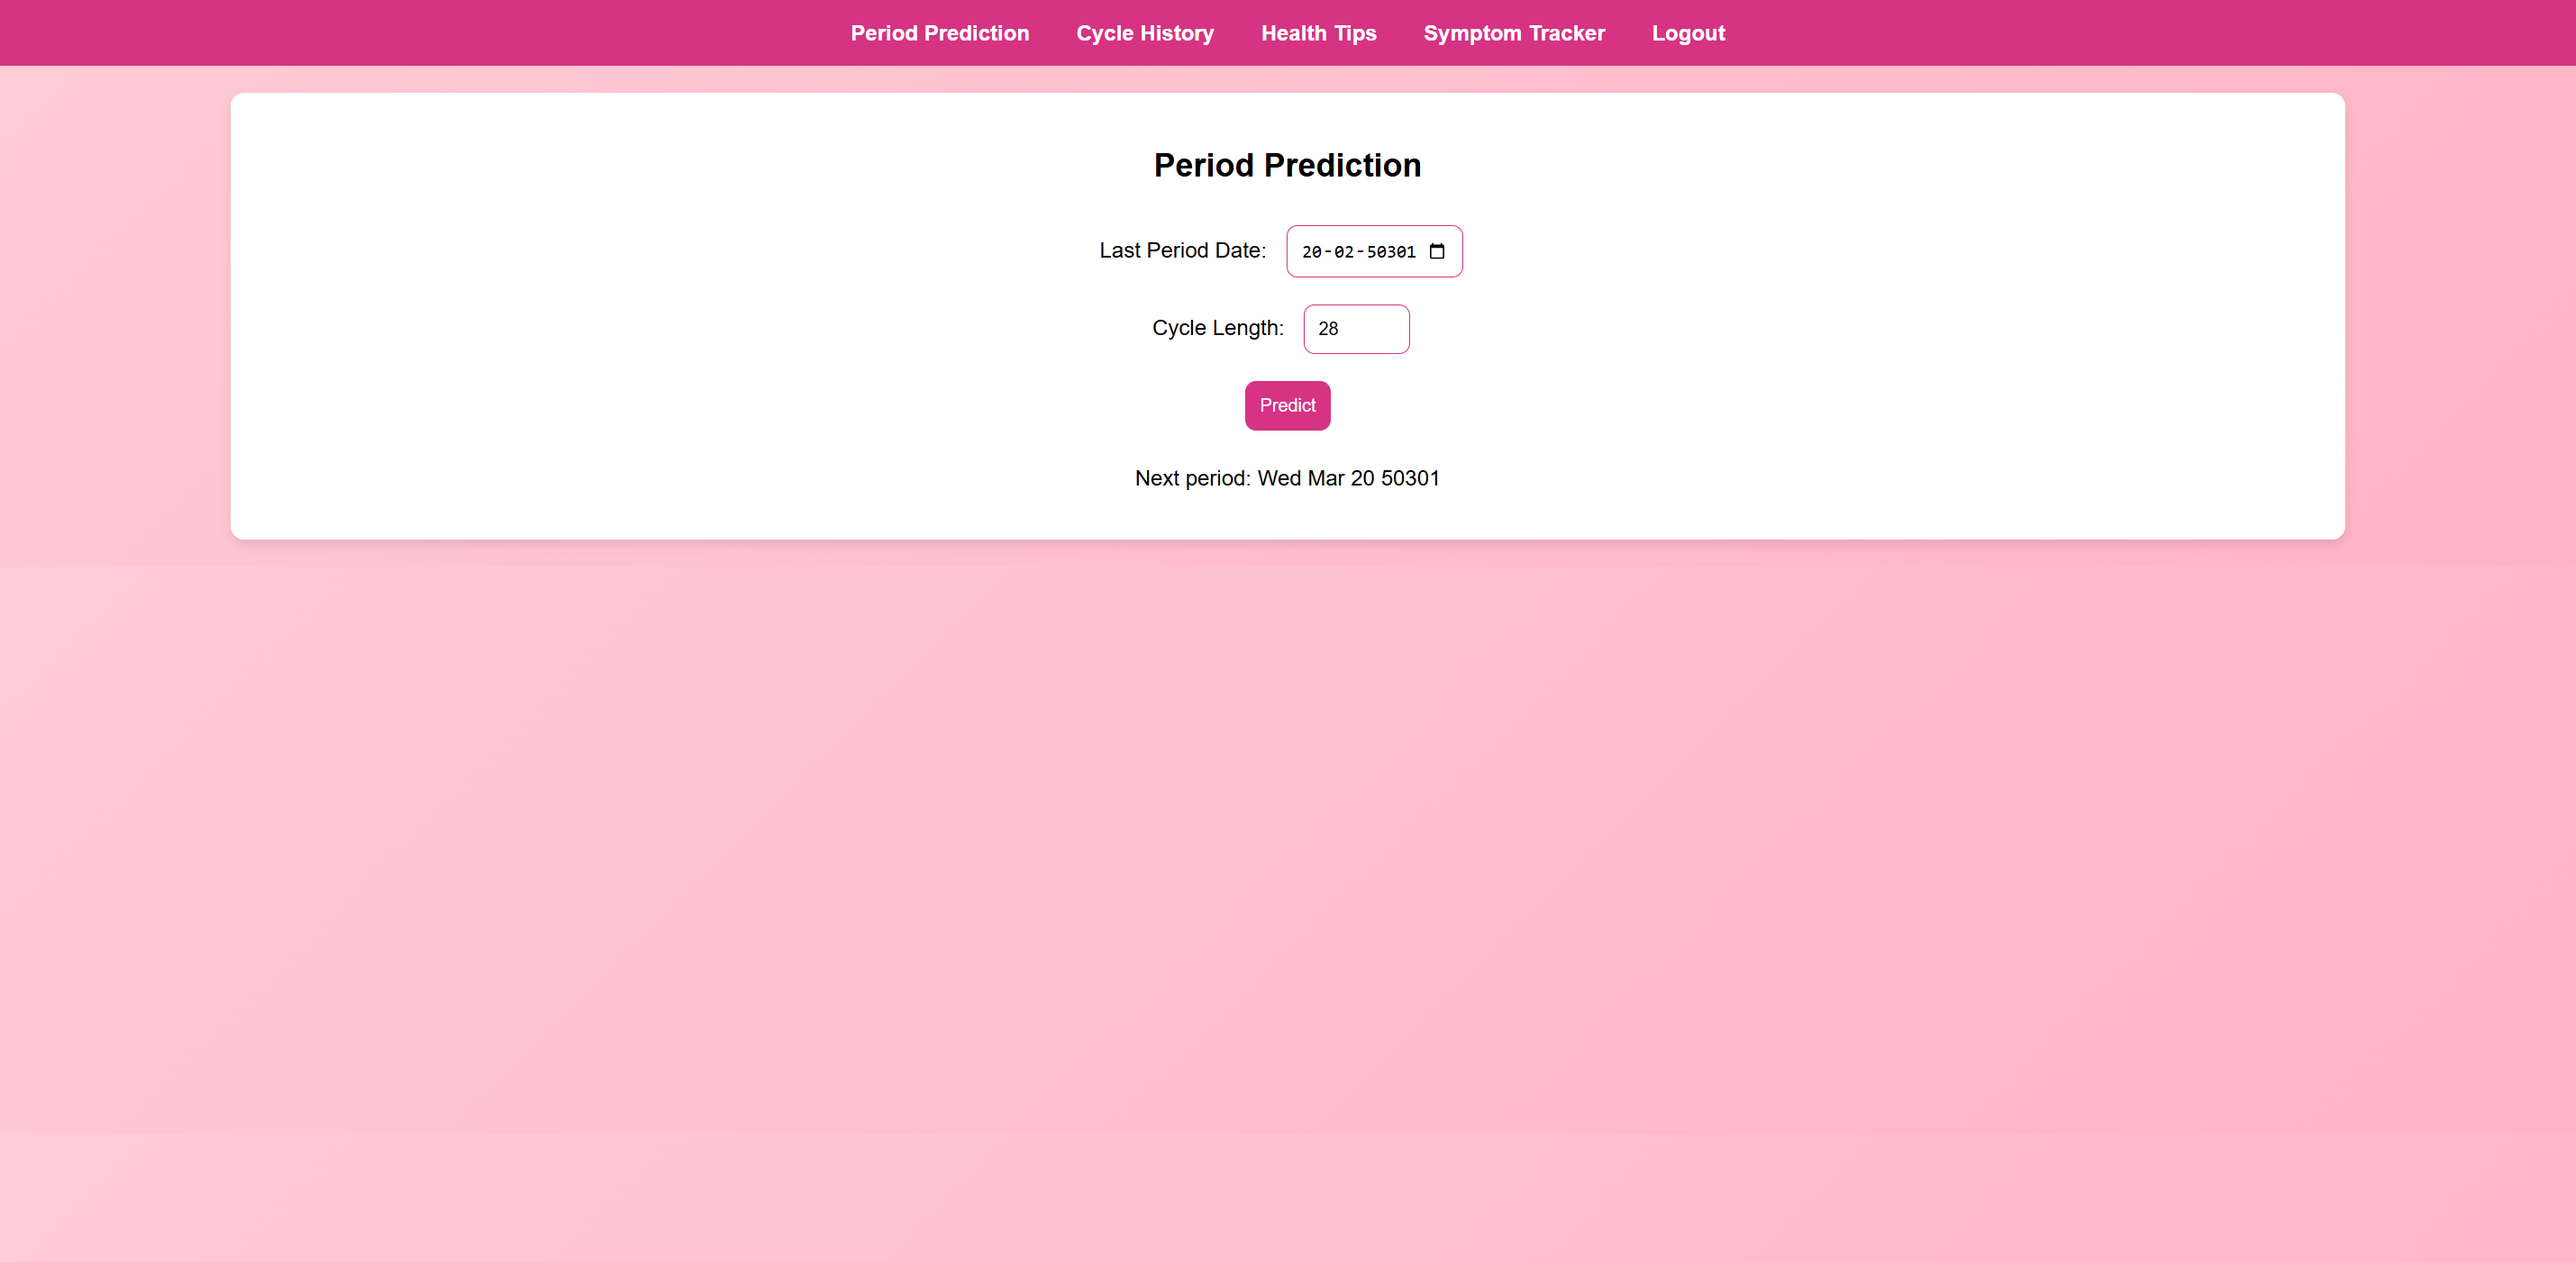
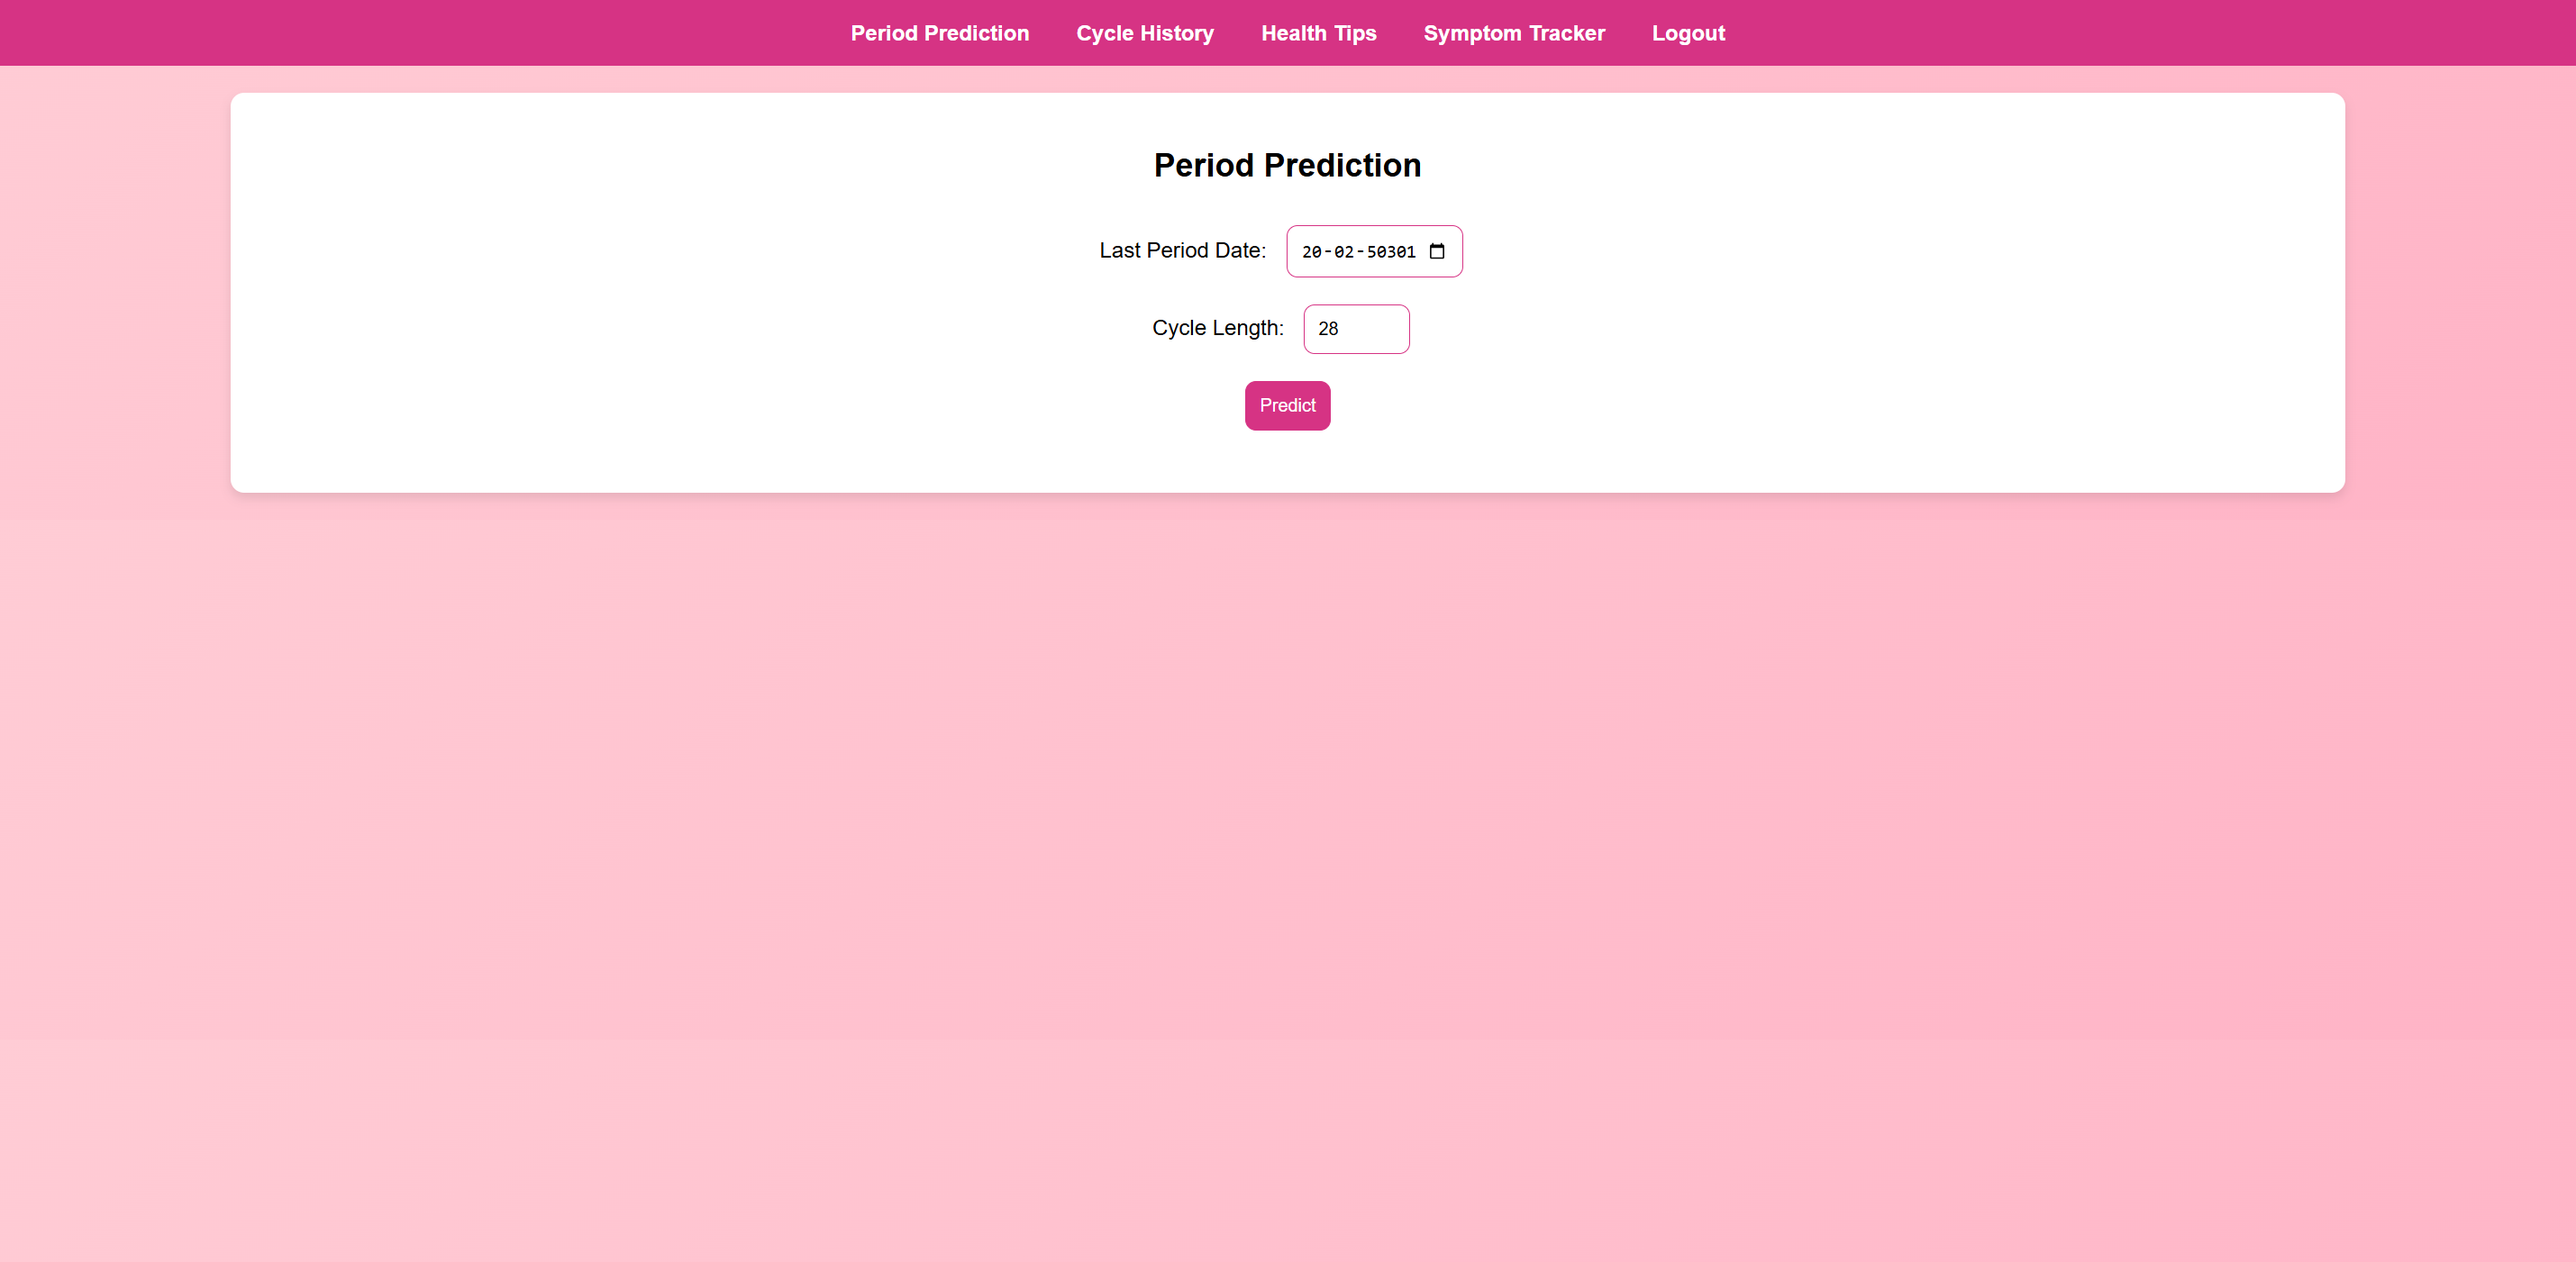
modified commit

Changed region(s): [[0.0623, 0.3683, 0.9339, 0.4297]]

diff --git a/dashboard.html b/dashboard.html
@@ -102,54 +102,110 @@
 
     <script>
         if (!localStorage.getItem("loggedIn")) {
-            window.location.href = "login.html";
-        }
-
-        function showSection(section) {
-            document.querySelectorAll("section").forEach(sec => sec.style.display = "none");
-            document.getElementById(section).style.display = "block";
-        }
+            window.location.href = "login.html";}
         
-        function logSymptoms() {
-            let mood = document.getElementById("mood").value;
-            let symptoms = [];
-            
-            ["cramps", "headache", "fatigue", "bloating"].forEach(symptom => {
-                if (document.getElementById(symptom).checked) {
-                    symptoms.push(symptom);
-                }
-            });
 
-            let log = {
-                date: new Date().toDateString(),
-                mood: mood,
-                symptoms: symptoms.join(", ") || "None"
-            };
+    function showSection(section) {
+        document.querySelectorAll("section").forEach(sec => sec.style.display = "none");
+        document.getElementById(section).style.display = "block";
+    }
 
-            let logs = JSON.parse(localStorage.getItem("symptomLogs")) || [];
-            logs.push(log);
-            localStorage.setItem("symptomLogs", JSON.stringify(logs));
-            updateSymptomHistory();
-        }
+    function predictPeriod() {
+    let lastPeriodDate = document.getElementById("lastPeriod").value;
+    let cycleLength = document.getElementById("cycleLength").value;
 
-        function updateSymptomHistory() {
-            let logs = JSON.parse(localStorage.getItem("symptomLogs")) || [];
-            let historyList = document.getElementById("symptomHistory");
-            historyList.innerHTML = "";
-            logs.forEach(log => {
-                let li = document.createElement("li");
-                li.innerText = `${log.date} - Mood: ${log.mood}, Symptoms: ${log.symptoms}`;
-                historyList.appendChild(li);
-            });
-        }
+    if (!lastPeriodDate || !cycleLength.trim()) {
+        document.getElementById("predictionResult").innerText = "Please enter both Last Period Date and Cycle Length.";
+        return;
+    }
+    
+    cycleLength = parseInt(cycleLength);
+    if (isNaN(cycleLength) || cycleLength < 21 || cycleLength > 35) {
+        document.getElementById("predictionResult").innerText = "Cycle length must be between 21 and 35 days.";
+        return;
+    }
 
-        function clearSymptomHistory() {
-            localStorage.removeItem("symptomLogs");
-            updateSymptomHistory();
-        }
+    let lastPeriod = new Date(lastPeriodDate);
+    let nextPeriod = new Date(lastPeriod);
+    nextPeriod.setDate(lastPeriod.getDate() + cycleLength);
 
+    let predictionText = `📅 Next period is expected on: ${nextPeriod.toDateString()}`;
+    document.getElementById("predictionResult").innerText = predictionText;
+
+    // ✅ Store prediction in history
+    let history = JSON.parse(localStorage.getItem("periodHistory")) || [];
+    history.push({ lastPeriod: lastPeriod.toDateString(), nextPeriod: nextPeriod.toDateString() });
+    localStorage.setItem("periodHistory", JSON.stringify(history));
+
+    updateCycleHistory();
+}
+
+
+    function updateCycleHistory() {
+        let history = JSON.parse(localStorage.getItem("periodHistory")) || [];
+        let historyList = document.getElementById("historyList");
+        historyList.innerHTML = "";
+
+        history.forEach(entry => {
+            let li = document.createElement("li");
+            li.innerText = `Last Period: ${entry.lastPeriod} → Predicted Next: ${entry.nextPeriod}`;
+            historyList.appendChild(li);
+        });
+    }
+
+    function clearHistory() {
+        localStorage.removeItem("periodHistory");
+        updateCycleHistory();
+    }
+
+    function logSymptoms() {
+        let mood = document.getElementById("mood").value;
+        let symptoms = [];
+
+        ["cramps", "headache", "fatigue", "bloating"].forEach(symptom => {
+            if (document.getElementById(symptom).checked) {
+                symptoms.push(symptom);
+            }
+        });
+
+        let log = {
+            date: new Date().toDateString(),
+            mood: mood,
+            symptoms: symptoms.join(", ") || "None"
+        };
+
+        let logs = JSON.parse(localStorage.getItem("symptomLogs")) || [];
+        logs.push(log);
+        localStorage.setItem("symptomLogs", JSON.stringify(logs));
         updateSymptomHistory();
-        showSection('prediction');
+    }
+
+    function updateSymptomHistory() {
+        let logs = JSON.parse(localStorage.getItem("symptomLogs")) || [];
+        let historyList = document.getElementById("symptomHistory");
+        historyList.innerHTML = "";
+        logs.forEach(log => {
+            let li = document.createElement("li");
+            li.innerText = `${log.date} - Mood: ${log.mood}, Symptoms: ${log.symptoms}`;
+            historyList.appendChild(li);
+        });
+    }
+
+    function clearSymptomHistory() {
+        localStorage.removeItem("symptomLogs");
+        updateSymptomHistory();
+    }
+
+    updateCycleHistory();
+    updateSymptomHistory();
+    showSection('prediction');
+    function logout() {
+    localStorage.removeItem("loggedIn");
+    window.location.href = "login.html";  // Redirect to login
+}
+
+</script>
+
     </script>
 </body>
 </html>

diff --git a/test_period_tracker.py b/test_period_tracker.py
@@ -14,11 +14,11 @@ from webdriver_manager.chrome import ChromeDriverManager
 service = Service(ChromeDriverManager().install())
 options = Options()
 options.add_argument("--headless")  # Run in headless mode
-options.add_argument("--window-size=1920,1080")  # Set fixed window size
+options.add_argument("--window-size=1920,1080")
 driver = webdriver.Chrome(service=service, options=options)
 wait = WebDriverWait(driver, 5)
 
-# Open Login Page (Replace with correct path)
+# Open Login Page
 file_path = os.path.abspath("login.html")
 driver.get("file://" + file_path)
 
@@ -30,8 +30,6 @@ def log_test(test_name, condition):
         test_results.append(f"✅ {test_name} - Passed")
     else:
         test_results.append(f"❌ {test_name} - Failed")
-
-# ---------------- TEST CASES ----------------
 
 # Test Case 1: Empty Login Fields
 driver.find_element(By.ID, "loginButton").click()
@@ -62,7 +60,7 @@ log_test("Correct Login", driver.find_element(By.ID, "prediction").is_displayed(
 driver.find_element(By.ID, "predictButton").click()
 time.sleep(1)
 prediction = driver.find_element(By.ID, "predictionResult").text
-log_test("Empty Prediction Fields", "Please enter all details" in prediction)
+log_test("Empty Prediction Fields", "Please enter both Last Period Date and Cycle Length." in prediction)
 
 # Test Case 5: Invalid Cycle Length
 driver.find_element(By.ID, "lastPeriod").send_keys("2025-03-01")
@@ -80,38 +78,29 @@ time.sleep(1)
 prediction = driver.find_element(By.ID, "predictionResult").text
 log_test("Valid Period Prediction", "Next period" in prediction)
 
-# Test Case 7: UI Comparison
-screenshot_path = "actual_ui.png"
-if os.path.exists(screenshot_path):
-    os.remove(screenshot_path)
-driver.save_screenshot(screenshot_path)
+# Test Case 7: Symptom Tracker Log
+wait.until(EC.presence_of_element_located((By.XPATH, "//a[text()='Symptom Tracker']"))).click()
+time.sleep(1)
+driver.find_element(By.ID, "mood").send_keys("Happy")
+driver.find_element(By.ID, "cramps").click()
+driver.find_element(By.XPATH, "//button[text()='Save Log']").click()
+time.sleep(1)
+symptom_logs = driver.find_element(By.ID, "symptomHistory").text
+log_test("Symptom Tracker Log", "Happy" in symptom_logs and "cramps" in symptom_logs)
 
-expected_path = "expected_ui.png"
-if not os.path.exists(expected_path):
-    test_results.append("❌ UI Comparison - Expected UI image not found!")
-else:
-    expected_img = cv2.imread(expected_path)
-    actual_img = cv2.imread(screenshot_path)
-    if expected_img is None or actual_img is None:
-        test_results.append("❌ UI Comparison - One of the images failed to load!")
-    else:
-        expected_img = cv2.resize(expected_img, (actual_img.shape[1], actual_img.shape[0]))
-        expected_gray = cv2.cvtColor(expected_img, cv2.COLOR_BGR2GRAY)
-        actual_gray = cv2.cvtColor(actual_img, cv2.COLOR_BGR2GRAY)
-        difference = cv2.absdiff(expected_gray, actual_gray)
-        cv2.imwrite("diff.png", difference)
-        log_test("UI Comparison", np.sum(difference) == 0)
+# Test Case 8: Clear Symptom History
+driver.find_element(By.XPATH, "//button[text()='Clear Symptom History']").click()
+time.sleep(1)
+symptom_logs = driver.find_element(By.ID, "symptomHistory").text
+log_test("Clear Symptom History", symptom_logs == "")
 
-# Test Case 8: Logout Functionality
-try:
-    logout_button = wait.until(EC.element_to_be_clickable((By.XPATH, "//a[text()='Logout']")))
-    logout_button.click()
-    time.sleep(1)
-    redirect_check = "login.html" in driver.current_url
-    local_storage_check = driver.execute_script("return localStorage.getItem('loggedIn');") is None
-    log_test("Logout Functionality", redirect_check and local_storage_check)
-except Exception as e:
-    test_results.append(f"❌ Logout Functionality - {str(e)}")
+# Test Case 9: Logout Functionality
+logout_button = wait.until(EC.element_to_be_clickable((By.XPATH, "//a[text()='Logout']")))
+logout_button.click()
+time.sleep(1)
+redirect_check = "login.html" in driver.current_url
+local_storage_check = driver.execute_script("return localStorage.getItem('loggedIn');") is None
+log_test("Logout Functionality", redirect_check and local_storage_check)
 
 # Display Summary of All Tests
 print("\n📝 Test Summary:")
